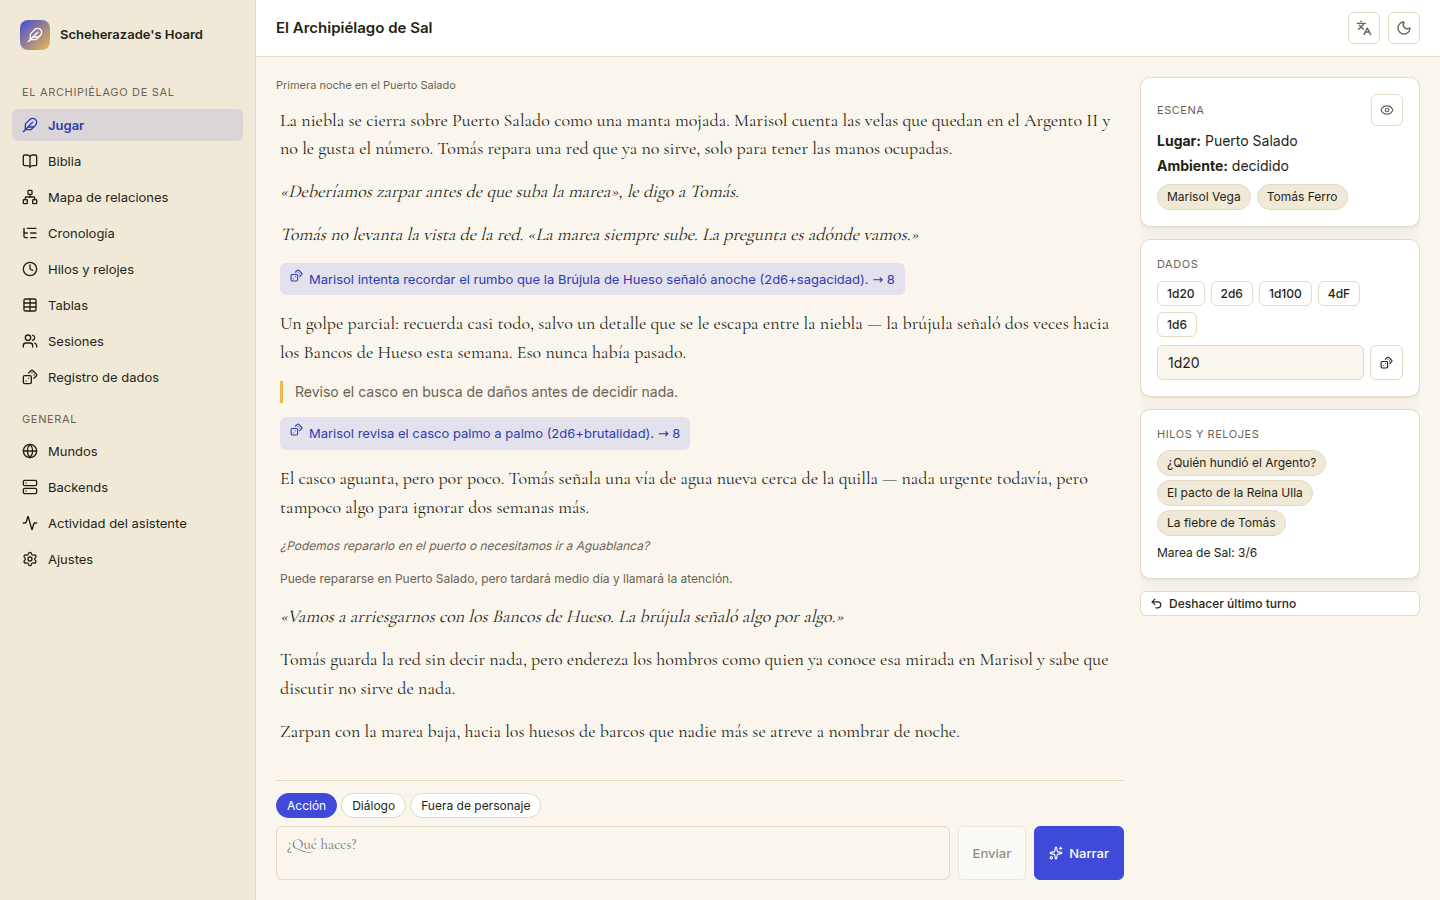
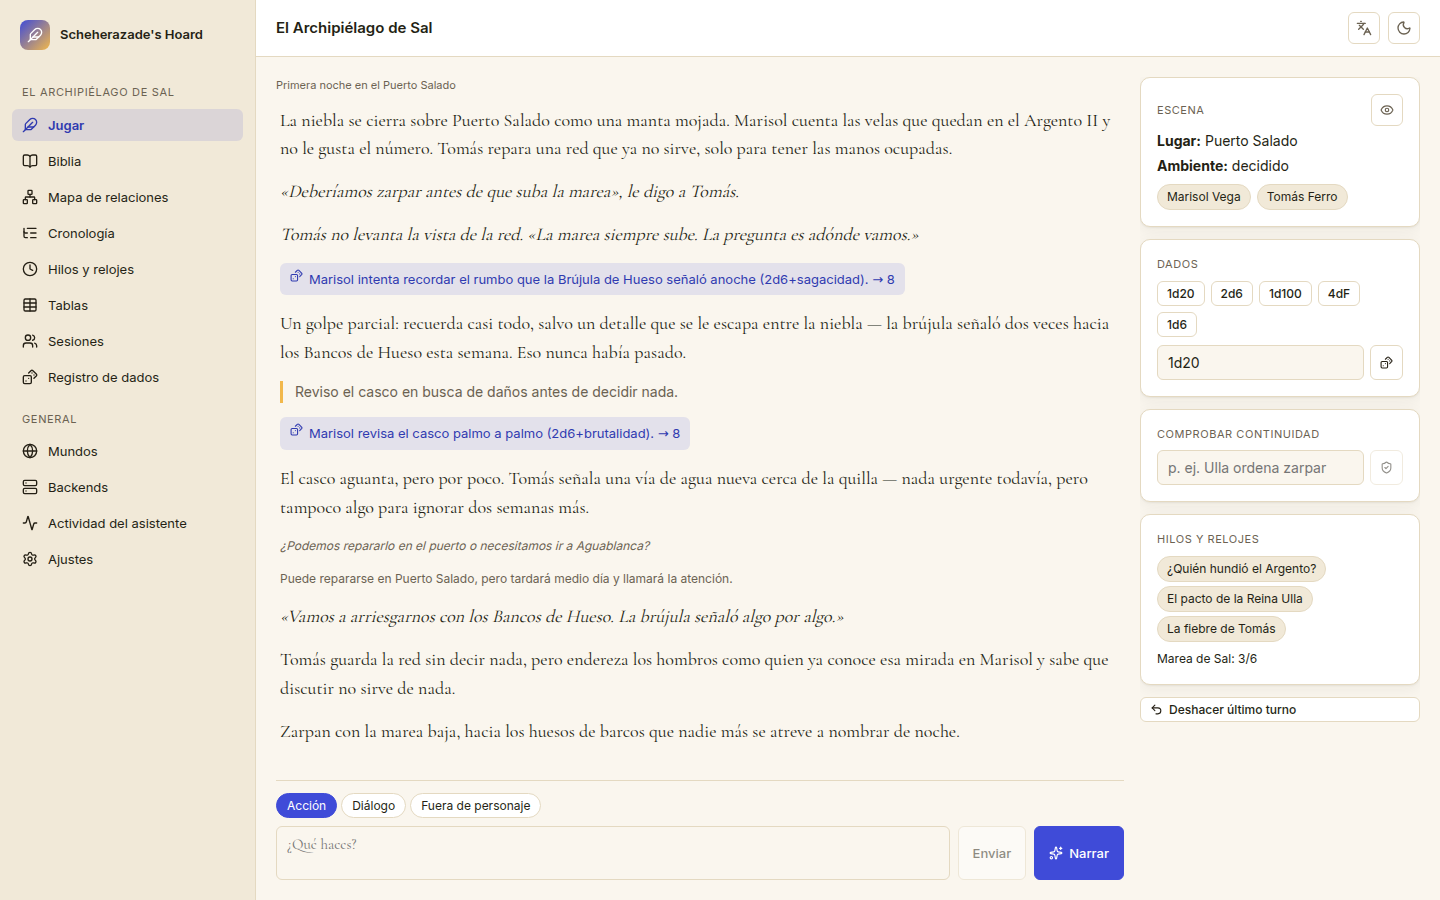
fix: follow the system theme, fit the relations map, and fix narrow windows
- The theme defaulted to light and was saved on first load, so
  prefers-color-scheme never applied; it now follows the system until
  the user picks one.
- The map's resize observer was attached while the page still showed
  'Loading', so it never measured the card and the graph stayed at a
  fixed 800 px, off-centre; several relations between the same pair were
  drawn as overlapping labels ('protfiga en'); they share one line and
  one label now, with a halo for legibility.
- On narrow windows a later .sidebar rule overrode the media query, so
  the drawer was always open above the content, and the transcript was
  squeezed to one line.
README screenshots retaken (the Play screen now shows the continuity
check).

Claude-Session: https://claude.ai/code/session_019KVoFTp2agjwLaonbFXam5

Changed region(s): [[0.7812, 0.4667, 0.9688, 0.7467], [0.8125, 0.7778, 0.9062, 0.8089]]

diff --git a/frontend/src/pages/MapPage.tsx b/frontend/src/pages/MapPage.tsx
@@ -61,12 +61,28 @@ export function MapPage({ world, lang }: { world: World; lang: Lang }) {
     });
     ro.observe(el);
     return () => ro.disconnect();
-  }, []);
+    // The container only exists once the data has loaded (before that the
+    // component renders "Loading"), so observe again when it appears.
+  }, [entities === null]);
 
   const positions = useMemo(
     () => layout(entities ?? [], size.width, size.height),
     [entities, size.width, size.height],
   );
+
+  // Several relations between the same two entities share one line with
+  // one label ("protege a · confía en") instead of drawing labels on top
+  // of each other.
+  const edges = useMemo(() => {
+    const groups = new Map<string, { a: string; b: string; types: string[] }>();
+    for (const rel of relations ?? []) {
+      const key = [rel.a_id, rel.b_id].sort().join("|");
+      const g = groups.get(key) ?? { a: rel.a_id, b: rel.b_id, types: [] };
+      if (!g.types.includes(rel.type)) g.types.push(rel.type);
+      groups.set(key, g);
+    }
+    return [...groups.entries()].map(([key, g]) => ({ key, ...g }));
+  }, [relations]);
 
   const byId = useMemo(() => {
     const m: Record<string, Entity> = {};
@@ -84,13 +100,13 @@ export function MapPage({ world, lang }: { world: World; lang: Lang }) {
     <div className="card" style={{ height: "100%", padding: 0, overflow: "hidden" }}>
       <div ref={containerRef} style={{ width: "100%", height: "100%", position: "relative" }}>
         <svg width={size.width} height={size.height} style={{ display: "block" }}>
-          {(relations ?? []).map((rel) => {
-            const a = positions[rel.a_id];
-            const b = positions[rel.b_id];
+          {edges.map((rel) => {
+            const a = positions[rel.a];
+            const b = positions[rel.b];
             if (!a || !b) return null;
-            const active = hovered === rel.a_id || hovered === rel.b_id;
+            const active = hovered === rel.a || hovered === rel.b;
             return (
-              <g key={rel.id}>
+              <g key={rel.key}>
                 <line
                   x1={a.x} y1={a.y} x2={b.x} y2={b.y}
                   stroke={active ? "var(--accent)" : "var(--border)"}
@@ -100,10 +116,13 @@ export function MapPage({ world, lang }: { world: World; lang: Lang }) {
                   x={(a.x + b.x) / 2}
                   y={(a.y + b.y) / 2}
                   fontSize={10}
-                  fill="var(--text-muted)"
+                  fill={active ? "var(--text)" : "var(--text-muted)"}
                   textAnchor="middle"
+                  paintOrder="stroke"
+                  stroke="var(--bg-elevated)"
+                  strokeWidth={3}
                 >
-                  {rel.type}
+                  {rel.types.join(" · ")}
                 </text>
               </g>
             );

diff --git a/frontend/src/App.tsx b/frontend/src/App.tsx
@@ -31,7 +31,8 @@ function readTheme(): Theme {
   } catch {
     /* ignore */
   }
-  return "light";
+  // no explicit choice yet: follow the operating system
+  return typeof window !== "undefined" && window.matchMedia?.("(prefers-color-scheme: dark)").matches ? "dark" : "light";
 }
 
 function readWorldId(): string | null {
@@ -53,12 +54,18 @@ export default function App() {
 
   useEffect(() => {
     document.documentElement.dataset.theme = theme;
+  }, [theme]);
+
+  // Only an explicit choice is remembered; until then the theme keeps
+  // following prefers-color-scheme.
+  const chooseTheme = (next: Theme) => {
+    setTheme(next);
     try {
-      localStorage.setItem("scheherazade.theme", theme);
+      localStorage.setItem("scheherazade.theme", next);
     } catch {
       /* ignore */
     }
-  }, [theme]);
+  };
 
   useEffect(() => {
     try {
@@ -132,7 +139,7 @@ export default function App() {
           lang={lang}
           onToggleLang={toggleLang}
           theme={theme}
-          onSetTheme={setTheme}
+          onSetTheme={chooseTheme}
           onOpenMobile={() => setMobileOpen(true)}
         />
         <div className="content">
@@ -141,7 +148,7 @@ export default function App() {
           )}
           {section === "backends" && <BackendsPage lang={lang} />}
           {section === "activity" && <ActivityPage lang={lang} />}
-          {section === "settings" && <SettingsPage lang={lang} theme={theme} onSetTheme={setTheme} onSetLang={(l) => { setLang(l); persistLang(l); }} />}
+          {section === "settings" && <SettingsPage lang={lang} theme={theme} onSetTheme={chooseTheme} onSetLang={(l) => { setLang(l); persistLang(l); }} />}
 
           {currentWorld && section === "play" && <PlayPage world={currentWorld} lang={lang} onWorldChanged={reloadWorlds} />}
           {currentWorld && section === "bible" && <BiblePage world={currentWorld} lang={lang} />}

diff --git a/frontend/src/styles/global.css b/frontend/src/styles/global.css
@@ -731,3 +731,14 @@ label.btn {
   color: var(--text);
   margin-bottom: 0;
 }
+
+/* Narrow windows. Kept at the end on purpose: the base .sidebar rule above
+   comes after the first media block and would otherwise win. */
+@media (max-width: 760px) {
+  .sidebar { display: none; }
+  .sidebar.open { display: flex; position: fixed; inset: 0; z-index: 40; }
+}
+@media (max-width: 900px) {
+  .play-layout { height: auto; }
+  .transcript { overflow-y: visible; }
+}
